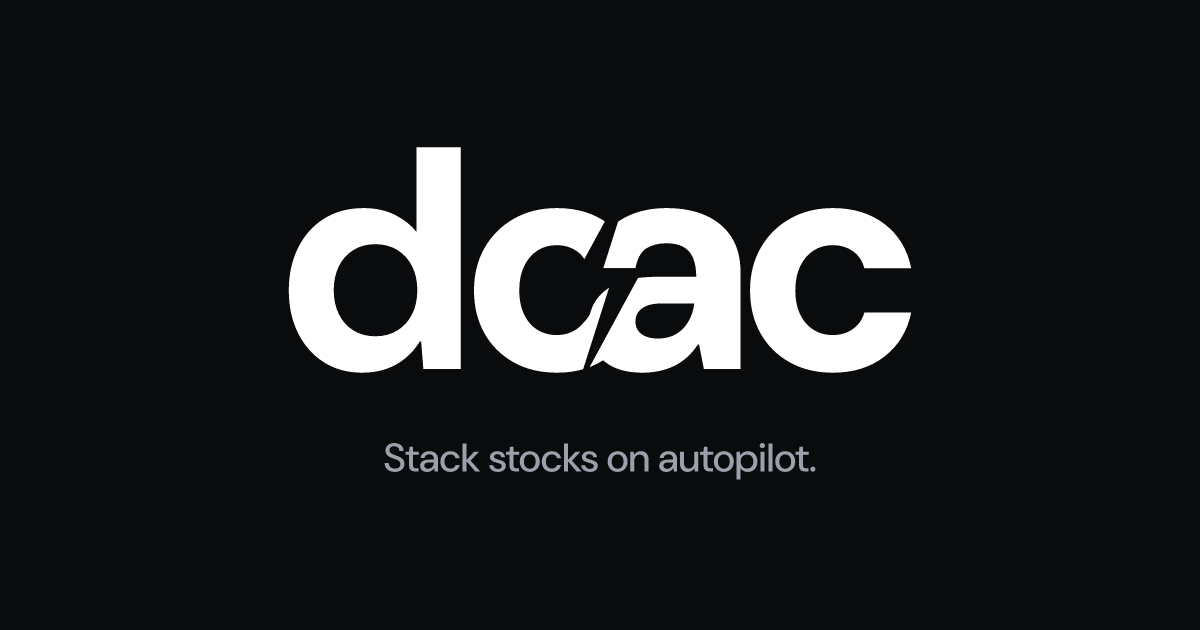
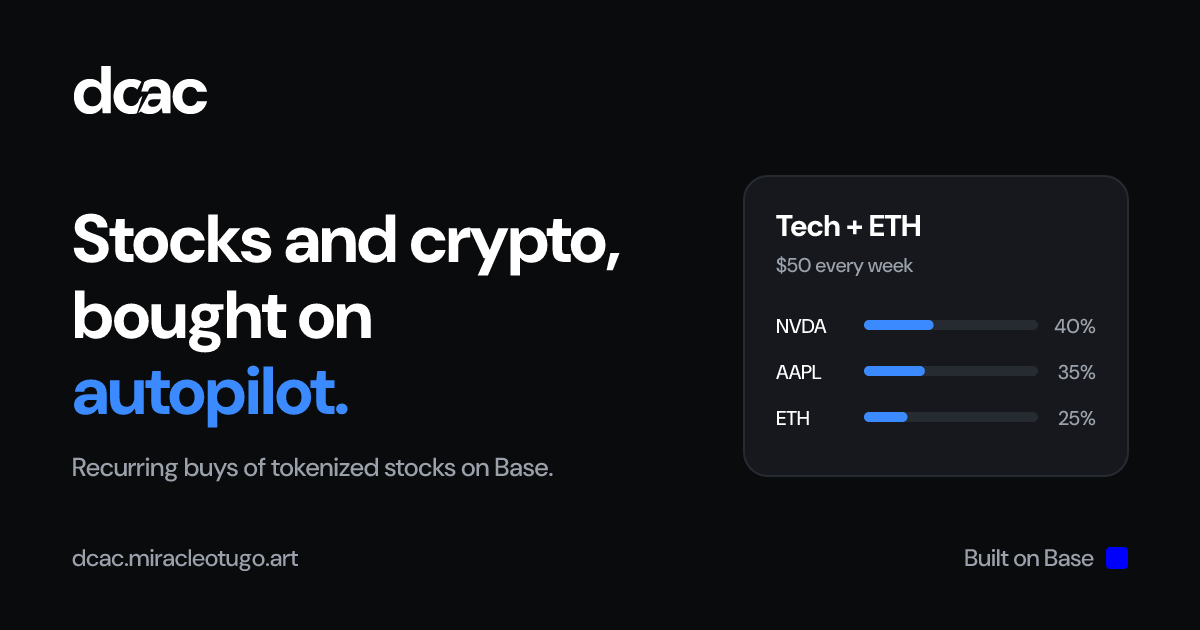
New share image and dcac.miracleotugo.art domain; say where savings yield comes from

diff --git a/web/index.html b/web/index.html
@@ -10,12 +10,19 @@
     <meta name="description" content="Recurring buys of tokenized stocks on Base. Pick a basket, set it once, it buys on schedule." />
     <link rel="icon" href="/favicon.svg" />
     <link rel="apple-touch-icon" href="/apple-touch-icon.png" />
-    <meta property="og:title" content="DCAC" />
-    <meta property="og:description" content="Stack stocks on autopilot. Recurring buys of tokenized stocks on Base." />
-    <meta property="og:url" content="https://dcac-alpha.vercel.app/" />
-    <meta property="og:image" content="https://dcac-alpha.vercel.app/og.png" />
-    <meta name="twitter:image" content="https://dcac-alpha.vercel.app/og.png" />
+    <meta property="og:title" content="DCAC: stocks and crypto, bought on autopilot" />
+    <meta property="og:type" content="website" />
+    <meta property="og:site_name" content="DCAC" />
+    <meta property="og:description" content="Recurring buys of tokenized stocks and crypto on Base. Build a basket, set it once, DCAC buys on schedule." />
+    <meta property="og:image:width" content="1200" />
+    <meta property="og:image:height" content="630" />
+    <meta property="og:image:alt" content="DCAC: stocks and crypto, bought on autopilot." />
+    <meta property="og:url" content="https://dcac.miracleotugo.art/" />
+    <meta property="og:image" content="https://dcac.miracleotugo.art/og.png" />
+    <meta name="twitter:image" content="https://dcac.miracleotugo.art/og.png" />
     <meta name="twitter:card" content="summary_large_image" />
+    <meta name="twitter:title" content="DCAC: stocks and crypto, bought on autopilot" />
+    <meta name="twitter:description" content="Recurring buys of tokenized stocks and crypto on Base." />
     <link rel="preconnect" href="https://fonts.googleapis.com" />
     <link rel="preconnect" href="https://fonts.gstatic.com" crossorigin />
     <link href="https://fonts.googleapis.com/css2?family=Inter+Tight:wght@400;500;600;700&family=Roboto+Mono:wght@300;400;500&family=Doto:wght@700;900&display=swap" rel="stylesheet" />

diff --git a/web/src/PlanForm.tsx b/web/src/PlanForm.tsx
@@ -481,8 +481,25 @@ export function PlanForm({ editId, copyId }: { editId?: bigint; copyId?: bigint 
                 Savings <Pill tone="brand">earns yield</Pill>
               </div>
               <div className="mt-0.5 text-sm text-muted">
-                USDC waiting for its turn sits in a savings vault. DCAC keeps {(protocol.data?.yieldFeeBps ?? 1000) / 100}% of the
-                yield.
+                {dep.mock ? (
+                  "USDC waiting for its turn sits in a savings vault."
+                ) : (
+                  <>
+                    USDC waiting for its turn goes into{" "}
+                    <a
+                      href={`https://app.morpho.org/base/vault/${dep.savingsVault}`}
+                      target="_blank"
+                      rel="noreferrer"
+                      className="text-ink underline underline-offset-2"
+                      onClick={(e) => e.stopPropagation()}
+                    >
+                      Gauntlet USDC Prime
+                    </a>
+                    , a Morpho vault that lends it to borrowers who post more collateral than they borrow. The rate varies; it's
+                    taken out for each buy.
+                  </>
+                )}{" "}
+                DCAC keeps {(protocol.data?.yieldFeeBps ?? 1000) / 100}% of the yield.
               </div>
             </div>
             <input

diff --git a/web/src/Landing.tsx b/web/src/Landing.tsx
@@ -124,7 +124,7 @@ export function Landing() {
               ],
               [
                 "Idle cash earns yield",
-                "Optionally park the USDC waiting for its turn in a savings vault. You keep 90% of what it earns.",
+                "Optionally put the USDC waiting for its turn in Gauntlet USDC Prime, a Morpho lending vault. You keep 90% of what it earns.",
               ],
               [
                 "One tap with Base Account",

diff --git a/README.md b/README.md
@@ -6,7 +6,7 @@ Built for Base's *Stocks Maxxing Season*, Programmable Stock Markets track (cust
 
 ## Live on Base
 
-App: **https://dcac-alpha.vercel.app**
+App: **https://dcac.miracleotugo.art**
 
 Deployed to Base mainnet on 2026-11-27 (block 62988364) from the audited launch code. Source verified on Basescan and Sourcify.
 
